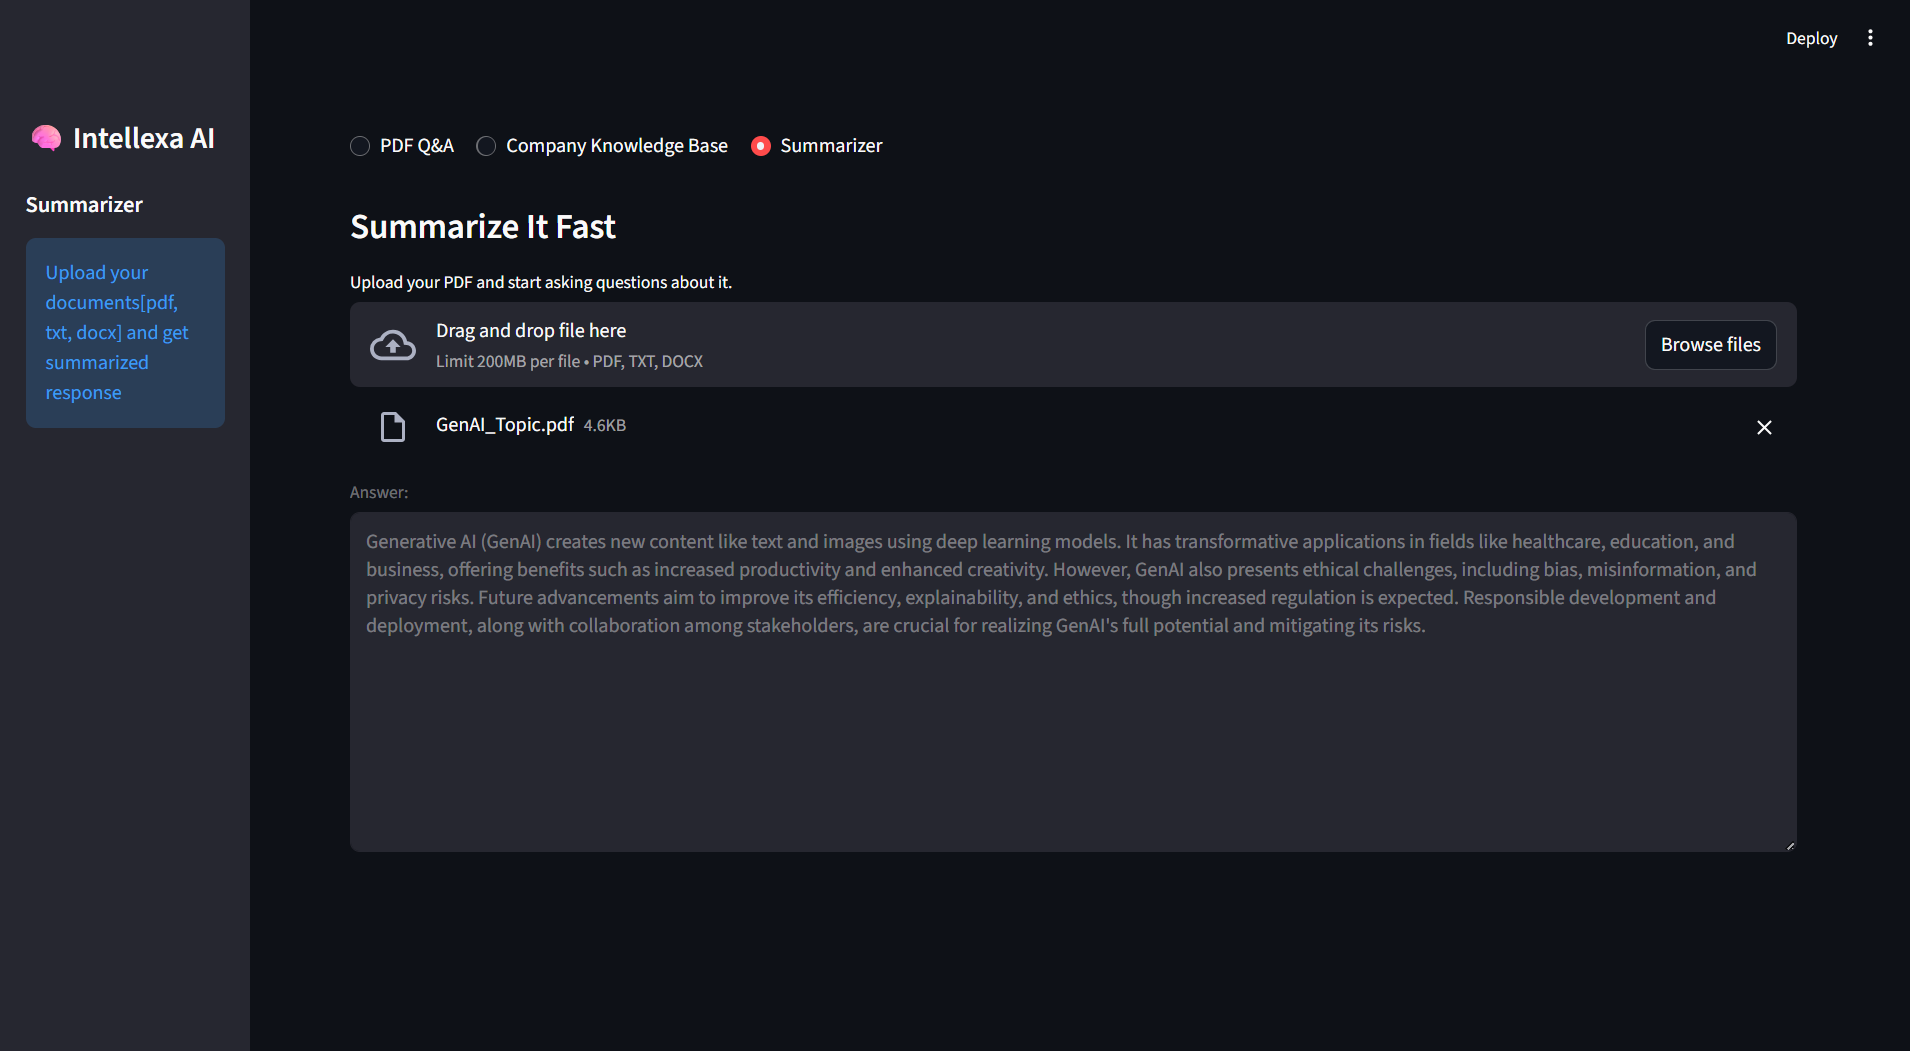
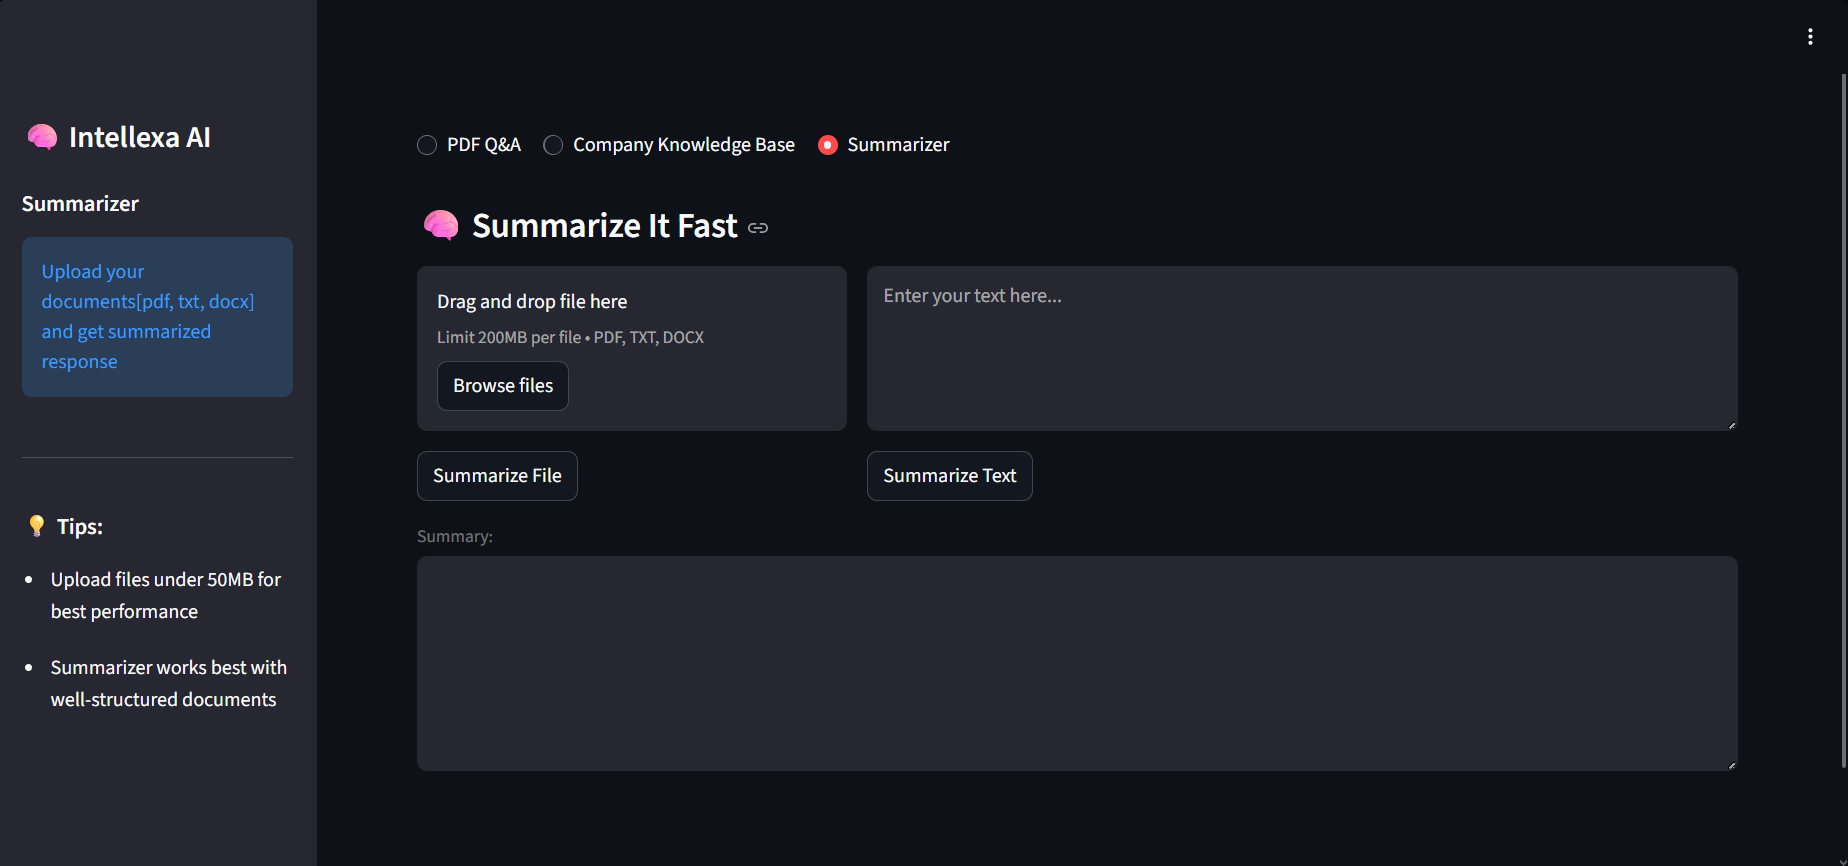
add demo video link

diff --git a/app.py b/app.py
@@ -213,7 +213,7 @@ if selected_tab == "PDF Q&A":
         st.sidebar.info("No chat history yet")
     # Footer
     st.sidebar.markdown("### 💡 Tips:")
-    st.sidebar.markdown("- Upload files under 50MB for best performance")
+    st.sidebar.markdown("- Upload files under 10MB for best performance")
     st.sidebar.markdown("- Use PDF Q&A for document-specific questions")
 
 elif selected_tab == "Company Knowledge Base":
@@ -235,5 +235,5 @@ elif selected_tab == "Summarizer":
     
     st.sidebar.markdown("---")
     st.sidebar.markdown("### 💡 Tips:")
-    st.sidebar.markdown("- Upload files under 50MB for best performance")
+    st.sidebar.markdown("- Upload files under 10MB for best performance")
     st.sidebar.markdown("- Summarizer works best with well-structured documents")

diff --git a/README.md b/README.md
@@ -1,5 +1,10 @@
 # 🧠 Intellexa AI - Enterprise Knowledge Platform
 
+## 🎥 Demo Video
+[![Intellexa AI Demo](https://img.shields.io/badge/Watch_Demo-FF0000?style=for-the-badge&logo=youtube)](https://youtu.be/QMDpWEcsHKg?si=eUmPloTShUwWgy-w)
+
+*Click the badge above to watch the full demo!*
+
 ## 🚀 Phase 3 Complete - Advanced Features & Chat History!
 
 ### What's New:
@@ -32,7 +37,7 @@ intellexa-ai/
 ├── requirements.txt
 ├── README.md
 ├── src/
-│   ├── config.py
+│   ├── utils.py
 │   ├── chains/
 │   ├── vector_store/
 │   └── core/
@@ -106,7 +111,7 @@ To deploy this app on Hugging Face:
 1. Create a new Space → Select **Streamlit** SDK
 2. Upload your project files (`app.py`, `requirements.txt`, `README.md`, `src/`)
 3. Add your Google Cloud credentials in **Settings → Secrets**
-4. Set environment variable in `config.py`:
+4. Set environment variable in `.env`:
 ```python
 os.environ["GOOGLE_APPLICATION_CREDENTIALS"] = "gcloud.json"
 ```
